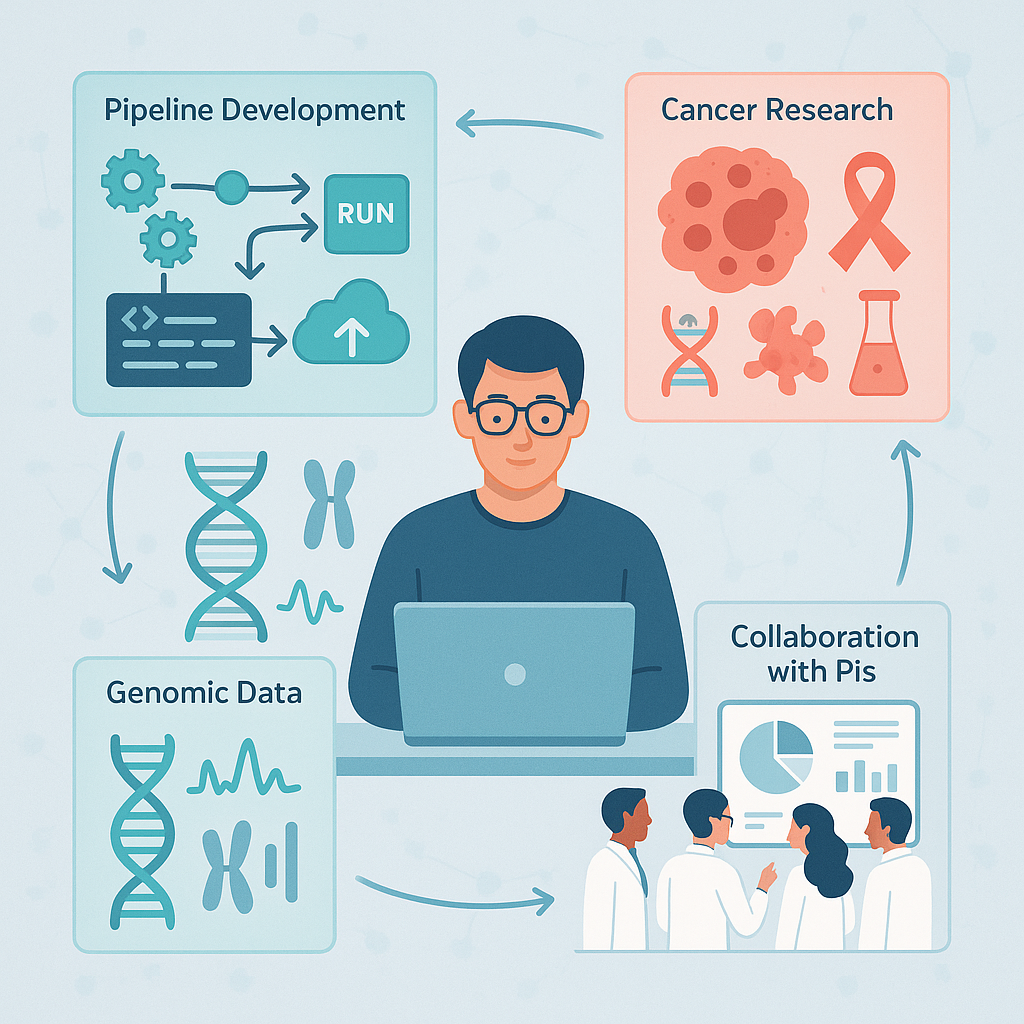
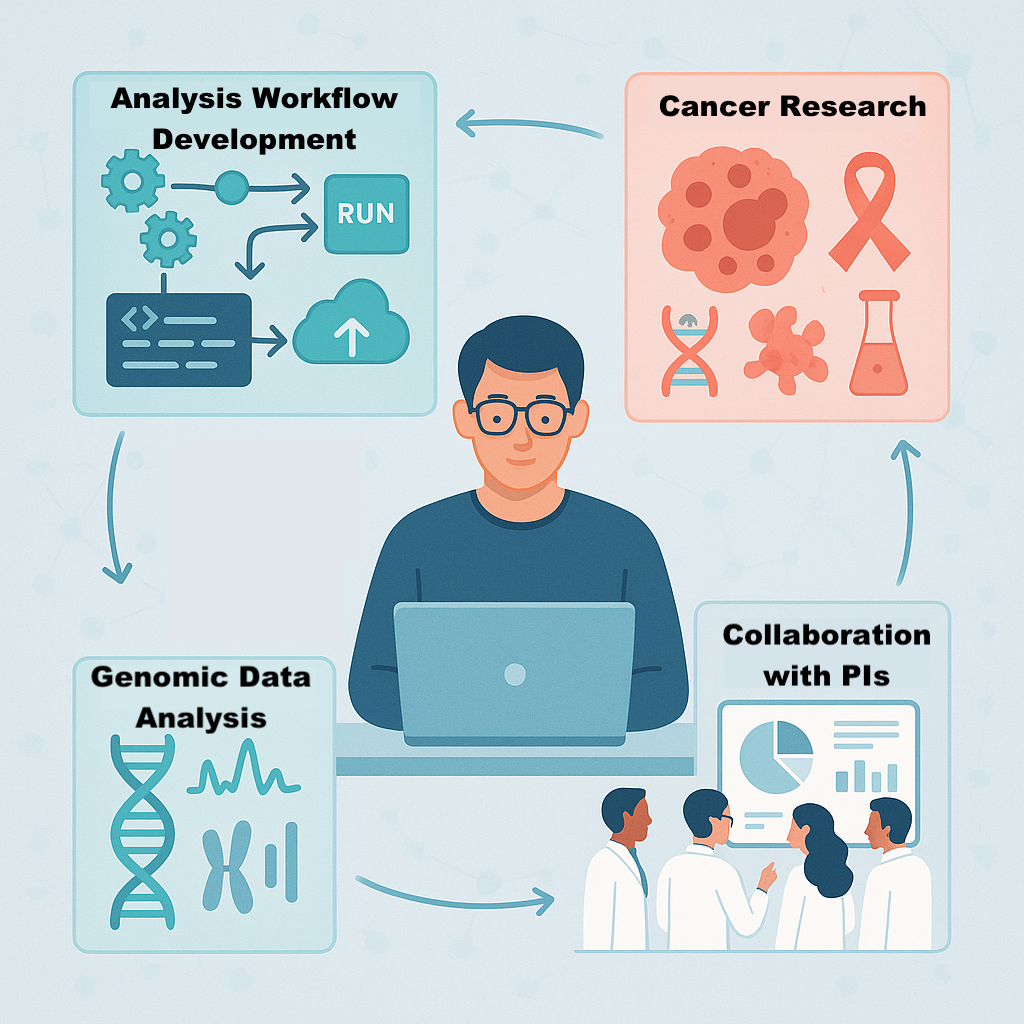
update:032126

diff --git a/timeline.html b/timeline.html
@@ -18,7 +18,6 @@ css: "assets/css/timeline.css"
                 <a href="../fnlcr" class="timeline-link">
                   <div class="timeline-content">
                     <div class="job-title">Bioinformatics Analyst</div>
-                    <div class="company-name">FNL-CR, Bethesda, MD</div>
                     <div class="company-full-name">Frederick National Lab for Cancer Research</div>
                     <div class="company-full">National Cancer Institute</div>
                     <div class="timeline-date">March 2023 - Present</div>
@@ -30,8 +29,7 @@ css: "assets/css/timeline.css"
             <li class="timeline-item">
                 <a href="../osu" class="timeline-link">
                 <div class="timeline-content">
-                    <div class="job-title">Postdoctoral Scholar</div>
-                    <div  class="company-name">OSU, Columbus, OH</div>
+                    <div class="job-title">Postdoctoral Research Scholar</div>
                     <div class="company-full-name">Evolution, Ecology, & Organismal Biology</div>
                     <div class="company-full">The Ohio State University</div>
                     <div class="timeline-date">January 2021 - February 2023 </div>
@@ -44,7 +42,6 @@ css: "assets/css/timeline.css"
                 <a href="../purdue" class="timeline-link">
                 <div class="timeline-content">
                     <div class="job-title">Graduate Research Fellow</div>
-                    <div  class="company-name">Purdue, West Lafayette, IN</div>
                     <div class="company-full-name">Biological Sciences</div>
                     <div class="company-full">Purdue University</div>
                     <div class="timeline-date">August 2015 - December 2020 </div>
@@ -57,7 +54,6 @@ css: "assets/css/timeline.css"
                 <a href="../iitr" class="timeline-link">
                 <div class="timeline-content">
                     <div class="job-title">Undergraduate Research Assistant</div>
-                    <div  class="company-name">IIT Roorkee</div>
                     <div class="company-full-name">Biotechnology</div>
                     <div class="company-full">Indian Institute of Technology, Roorkee</div>
                     <div class="timeline-date">June 2013 - June 2015 </div>

diff --git a/assets/css/landing.css b/assets/css/landing.css
@@ -8,8 +8,8 @@
 -------------------------- */
 .hero-section {
   position: relative;
-  padding: 2.5rem 0 1.5rem;
-  margin-bottom: 2rem;
+  padding: 2.5rem 0 0.5rem;
+  margin-bottom: 0.35rem;
   margin-top: -2rem;
   overflow: hidden;
 }
@@ -71,7 +71,7 @@
   font-size: 1.05rem;
   line-height: 1.6;
   max-width: 800px;
-  margin: 0 auto 1rem;
+  margin: 0 auto 0.35rem;
   color: #030303;
   opacity: 0.9;
   animation: fadeInUp 0.8s ease-out 0.4s both;
@@ -197,7 +197,7 @@
 -------------------------- */
 .stats-grid {
   max-width: 1200px;
-  margin: 1rem auto 2.5rem;
+  margin: 0 auto 2.5rem;
   padding: 0 1.5rem;
   display: flex;
   justify-content: center;
@@ -403,7 +403,7 @@
   
   .hero-description { 
     font-size: 0.95rem;
-    margin-bottom: 0.8rem;
+    margin-bottom: 0.35rem;
   }
 
   .hero-welcome-banner {
@@ -415,13 +415,13 @@
   }
   
   .hero-section {
-    padding: 2rem 0 1rem;
-    margin-bottom: 1.5rem;
+    padding: 2rem 0 0.5rem;
+    margin-bottom: 0.35rem;
   }
   
   .stats-grid {
     gap: 0.8rem;
-    margin: 0.8rem auto 2rem;
+    margin: 0 auto 2rem;
   }
   
   .stat-card {

diff --git a/assets/css/publications.css b/assets/css/publications.css
@@ -4,6 +4,26 @@
     max-width: 100%;
 }
 
+.publication-count-banner {
+  display: block;
+  width: fit-content;
+  max-width: 100%;
+  margin: 0 auto 1rem;
+  padding: 0.5rem 1rem;
+  border-radius: 10px;
+  border: 1px solid rgba(0, 74, 173, 0.3);
+  background: linear-gradient(135deg, rgba(255, 255, 255, 0.95), rgba(240, 247, 255, 0.95));
+  box-shadow: 0 8px 20px rgba(0, 74, 173, 0.12);
+  color: #1f4f9e;
+  font-size: 0.86rem;
+  font-weight: 700;
+  letter-spacing: 0.08em;
+  text-transform: uppercase;
+  line-height: 1.2;
+  white-space: nowrap;
+  animation: fadeInUp 0.8s ease-out 0.3s both;
+}
+
 .publication-card {
     border: 1px solid #dee2e6;
     border-radius: 0.5rem;
@@ -139,6 +159,11 @@
 
 /* Responsive Design */
 @media (max-width: 768px) {
+    .publication-count-banner {
+        font-size: 1rem;
+        padding: 0.5rem 0.9rem;
+    }
+
     .publication-footer {
         flex-direction: column;
         align-items: flex-start;

diff --git a/assets/css/timeline.css b/assets/css/timeline.css
@@ -202,12 +202,12 @@
 .timeline-date {
     display: inline-block;
     padding: 0.5rem 1rem;
-    background: linear-gradient(135deg, #E0F3FF 0%, #2F8FED 100%);
+    background: linear-gradient(135deg, #E0F3FF 0%, #96c7f7 100%);
     border-radius: 25px;
     font-size: 0.85rem;
     font-weight: 500;
     color: #030303;
-    border: 1px #2F8FED;
+    border: 1px #072e55;
     margin-top: 1rem;
 }
 

diff --git a/assets/css/blog-style.css b/assets/css/blog-style.css
@@ -457,7 +457,7 @@
 }
 
 .callout.info::before {
-  content: 'ℹ';
+  content: '🏆';
 }
 
 /* Responsive design */

diff --git a/osu.md b/osu.md
@@ -3,21 +3,41 @@ layout: page
 title: Postdoctoral Research Scholar
 subtitle:  "@ The Ohio State University"
 cover-img: 
-  - "assets/img/osu.webp"
+  - "assets/img/osu.webp" : "The Ohio State University"
 css : 
     - "assets/css/image_gallery.css"
     - "assets/css/justify-content.css"
+    - "/assets/css/blog-style.css"
 ---
 
-At Ohio State, I continued to explore the intersection of evolutionary genomics and conservation biology, shifting my focus from birds to reptiles. I worked with Dr. H. Lisle Gibbs in the Department of Evolution, Ecology, and Organismal Biology (EEOB), where my projects centered on federally endangered Eastern Massasauga rattlesnakes and host responses to snake fungal disease.
+<div class="inline-image">
+  <img src="https://www.biologicaldiversity.org/assets/img/species/reptiles/EasternMassasauga_ToddPierson_Flickr.jpg" alt="Scatenatus">
+  <div class="image-caption">
+    The eastern massasauga rattlesnake (©Photo by Todd Pierson/Flickr)
+  </div>
+</div>
 
-My work addressed big-picture questions about how small, isolated populations maintain genetic health, and how functional and neutral genetic diversity interact in the face of demographic decline. In one study, we used population genomic data from rattlesnakes to evaluate a hotly debated question in conservation genetics—whether neutral markers can still reliably inform functional diversity. Our findings, published in PNAS, provided a nuanced perspective: neutral and functional diversity are indeed correlated, but the strength of that correlation depends on recent demographic history.
+At The Ohio State, I continued to explore the intersection of evolutionary genomics and conservation biology, shifting my focus from birds to reptiles. I worked with Dr. H. Lisle Gibbs in the Department of Evolution, Ecology, and Organismal Biology (EEOB), where my projects centered on federally endangered Eastern Massasauga rattlesnakes.
+
+My work addressed big-picture questions about how small, isolated populations maintain genetic health, and how functional and neutral genetic diversity interact in the face of demographic decline. In one study, we used population genomic data from rattlesnakes to evaluate a hotly debated question in conservation genetics—whether neutral markers can still reliably inform functional diversity. Our findings, published in PNAS, provided a nuanced perspective: neutral and functional diversity are indeed correlated, but the strength of that correlation might decrease due to recent demographic declines.
+
+
+  <div class="image-card">
+    <img src="/assets/img/osu_pnas.png" alt="PNAS paper figure from OSU research">
+    <div class="image-caption" style="max-height: 200px; object-fit: cover;">
+      <a href="https://doi.org/10.1073/pnas.2303043120" target="_blank">PNAS study</a> describing neutral and functional genomic diversity in Eastern Massasauga rattlesnakes. 
+    </div>
+  </div>
 
 In parallel, I led an RNAseq project exploring immune response variation in rattlesnakes exposed to Ophidiomyces ophidiicola, the fungal pathogen responsible for snake fungal disease. This work advanced our understanding of wildlife disease susceptibility and host-pathogen dynamics using transcriptomic data.
 
-Beyond research, this postdoc shaped me as a mentor, communicator, and collaborator. It also reinforced my passion for translating high-throughput genomic data into insights that matter for real-world biological challenges—a passion that ultimately led me into cancer genomics and bioinformatics at Frederick National Lab.
-
-
-<div class="button-container">
-    <a href="../purdue" class="btn btn-google">Learn more about my research @ OSU</a>
+  
+<div class="image-card">
+    <img src="/assets/img/osu_me.png" alt="Samarth Mathur during OSU research">
+    <div class="image-caption">
+      Schematic showing the methodological overview of the infection trial to study the host response to snaake fungal disease that was published in <a href="https://doi.org/10.1111/mec.17210" target="_blank">Molecular Ecology</a>.
+    </div>
 </div>
+
+
+Beyond research, this postdoc shaped me as a mentor, communicator, and collaborator. It also reinforced my passion for translating high-throughput genomic data into insights that matter for real-world biological challenges—a passion that ultimately led me into cancer genomics and bioinformatics at the National Cancer Institute.

diff --git a/summary.md b/summary.md
@@ -8,15 +8,16 @@ css :
 
 I am a computational biologist currently working as a **Bioinformatics Analyst** at the [National Cancer Institute (NCI)]((https://www.cancer.gov/)). I am a part of the [Center for Cancer Research Collaborative Bioinformatics Resource (CCBR)](https://bioinformatics.ccr.cancer.gov/ccbr/) — a specialized team supporting investigators across the NIH's intramural cancer research programs. 
 
-I earned my Ph.D. in Biological Sciences from Purdue University, where my research focused on understanding genetic load, functional diversity, and adaptive potential in small or endangered populations. As a Welder Wildlife Fouundation Graduate Research Fellow, my work combining whole-genome resequencing, simulation modeling, and theoretical genomics has been recognized with multiple national awards, including the 2024 Society for the Study of Evolution's Presidents’ Award for most outstanding dissertation publication. 
+I earned my **Ph.D.** in Biological Sciences from **Purdue University**, where my research focused on understanding genetic load, functional diversity, and adaptive potential in small or endangered populations. As a **Welder Wildlife Foundation Graduate Research Fellow**, my work combining whole-genome resequencing, simulation modeling, and population genomics has been recognized with multiple international awards, including the 2024 **Society for the Study of Evolution's Presidents’ Award** for most outstanding dissertation publication. 
 
-Following my doctorate, I completed a postdoctoral fellowship at The Ohio State University, studying host immune responses to emerging fungal diseases in endangered rattlesnakes using multi-tissue RNA-seq data. My research has contributed to conservation planning through collaborations with state wildlife agencies and I have published over 15 peer-reviewed articles in leading journals including PNAS, Evolution, and Molecular Ecology.
+Following my doctorate, I completed a **postdoctoral scholarship at The Ohio State University**, studying host immune responses to emerging fungal diseases in endangered rattlesnakes using multi-tissue RNA-seq data. 
 
+My research has contributed to conservation planning through collaborations with state wildlife agencies and I have published **over 20 peer-reviewed research articles** in leading journals including PNAS, Evolution, and Molecular Ecology.
 
 My technical expertise spans R, Python, Bash, and high-performance computing, with deep experience in NGS analysis, genome assembly, and multi-omics integration. Passionate about applied genomics and interdisciplinary science, I bridge fundamental evolutionary theory with practical insights in wildlife management and biomedicine. I am also an invited speaker, mentor, and peer reviewer committed to advancing open and collaborative science.
 
 ---
 
 <div class="button-container">
-    <a href="../timeline" class="btn btn-primary">My journey</a>
+    <a href="../timeline" class="btn btn-primary">My Professional Journey</a>
 </div>

diff --git a/pubs.md b/pubs.md
@@ -11,11 +11,10 @@ subtitle: Research publications and academic contributions
     <!-- Header Stats -->
     <div class="text-center mb-4">
         <p class="text-muted">
-            <span id="publication-count">0 Publications</span> • 
-            <span id="total-citations">0 Total Citations</span>
-            <br>
-            <br>
-            <a href="https://scholar.google.com/citations?user=kL0KaxQAAAAJ&hl=en" target="_blank" class="scholar-badge">🎓 My Google Scholar Profile</a>
+        <a href="https://scholar.google.com/citations?user=kL0KaxQAAAAJ&hl=en" target="_blank" class="scholar-badge">🎓 My Google Scholar Profile</a>
+        <br>
+        <br>
+        <span id="publication-count" class="publication-count-banner">0 Publications</span>
         </p>
     </div>
     <!-- Loading State -->
@@ -64,9 +63,6 @@ const myDOIs = [
     
 
 ];
-
-// Google Scholar profile URL (optional)
-const GOOGLE_SCHOLAR_URL = 'https://scholar.google.com/citations?user=kL0KaxQAAAAJ&hl=en&oi=ao';
 
 let publications = [];
 let isLoading = false;
@@ -238,24 +234,13 @@ function createPublicationCard(pub) {
     `;
 }
 
-function calculateTotalCitations() {
-    return publications.reduce((total, pub) => {
-        return total + (pub.citationCount || 0);
-    }, 0);
-}
-
 function updateUI() {
     const publicationsList = document.getElementById('publications-list');
     const emptyState = document.getElementById('empty-state');
     const publicationCount = document.getElementById('publication-count');
-    const totalCitations = document.getElementById('total-citations');
 
     // Update publication count
     publicationCount.textContent = `${publications.length} Publication${publications.length !== 1 ? 's' : ''}`;
-    
-    // Update total citations count
-    const totalCitationCount = calculateTotalCitations();
-    totalCitations.textContent = `${totalCitationCount} Total Citation${totalCitationCount !== 1 ? 's' : ''}`;
 
     // Show/hide empty state and publications
     if (publications.length === 0) {

diff --git a/nci.md b/nci.md
@@ -1,14 +1,16 @@
 ---
 layout: page
 title: Bioinformatics Analyst II
-subtitle:  "@ FNLCR"
+subtitle:  "@ NCI/NIH"
 cover-img: 
-  - "assets/img/fnlcr.jpg" : "Frederick National Laboratory for Cancer Research"
+  - "assets/img/nih.jpg" : "National Institutes of Health"
 css : "assets/css/image_gallery.css"
 css : "assets/css/justify-content.css"
 ---
 
-As a member of the CCR Collaborative Bioinformatics Resource ([CCBR](https://bioinformatics.ccr.cancer.gov/ccbr/)) core team at the National Cancer Institute ([NCI](https://cancer.gov/)), I work at the intersection of biomedical innovation and cutting-edge cancer research. My role within CCBR allows me to serve as a bridge between computational expertise and life-changing cancer discoveries, supporting researchers across the NIH. Every day, I focus on delivering expert-level computational support that accelerates cancer research through data-driven genomics and high-performance computing.
+As a member of the CCR Collaborative Bioinformatics Resource (<a href="https://bioinformatics.ccr.cancer.gov/ccbr/" target="_blank">CCBR</a>) core team at the National Cancer Institute (<a href="https://cancer.gov/" target="_blank">NCI</a>), I work at the intersection of biomedical innovation and cutting-edge cancer research. My role within CCBR allows me to serve as a bridge between computational expertise and life-changing cancer discoveries, supporting researchers across the <a href="https://nih.gov/" target="_blank">NIH</a>. 
+
+Every day, I focus on delivering expert-level computational support that accelerates cancer research through data-driven genomics and high-performance computing.
 
 
 <div class="responsive-gallery">

diff --git a/index.md b/index.md
@@ -10,7 +10,7 @@ css : "assets/css/landing.css"
     <h1 class="hero-title">Samarth Mathur, PhD</h1>
     <p class="hero-welcome-banner">welcome to my personal website</p>
     <p class="hero-description">
-      I work at the intersection of computational genomics and evolutionary biology to study the genetics of cancer. I develop rigorous <i>multi-omic</i> analyses to extract biological insight from complex, high-throughput biomedical data.
+      I am a <b> computational biologist </b> who work at the intersection of genomics and evolutionary biology to study the genetics of cancer. I develop rigorous <i>multi-omic</i> analyses to extract biological insight from complex, high-throughput biomedical data.
     </p>
   </div>
 </div>
@@ -28,7 +28,7 @@ css : "assets/css/landing.css"
   </div>
 
   <div class="stat-card scroll-animate animate-scale animate-delay-3">
-    <div class="stat-number">700+</div>
+    <div class="stat-number">750+</div>
     <div class="stat-label">Citations</div>
   </div>
 </div>
